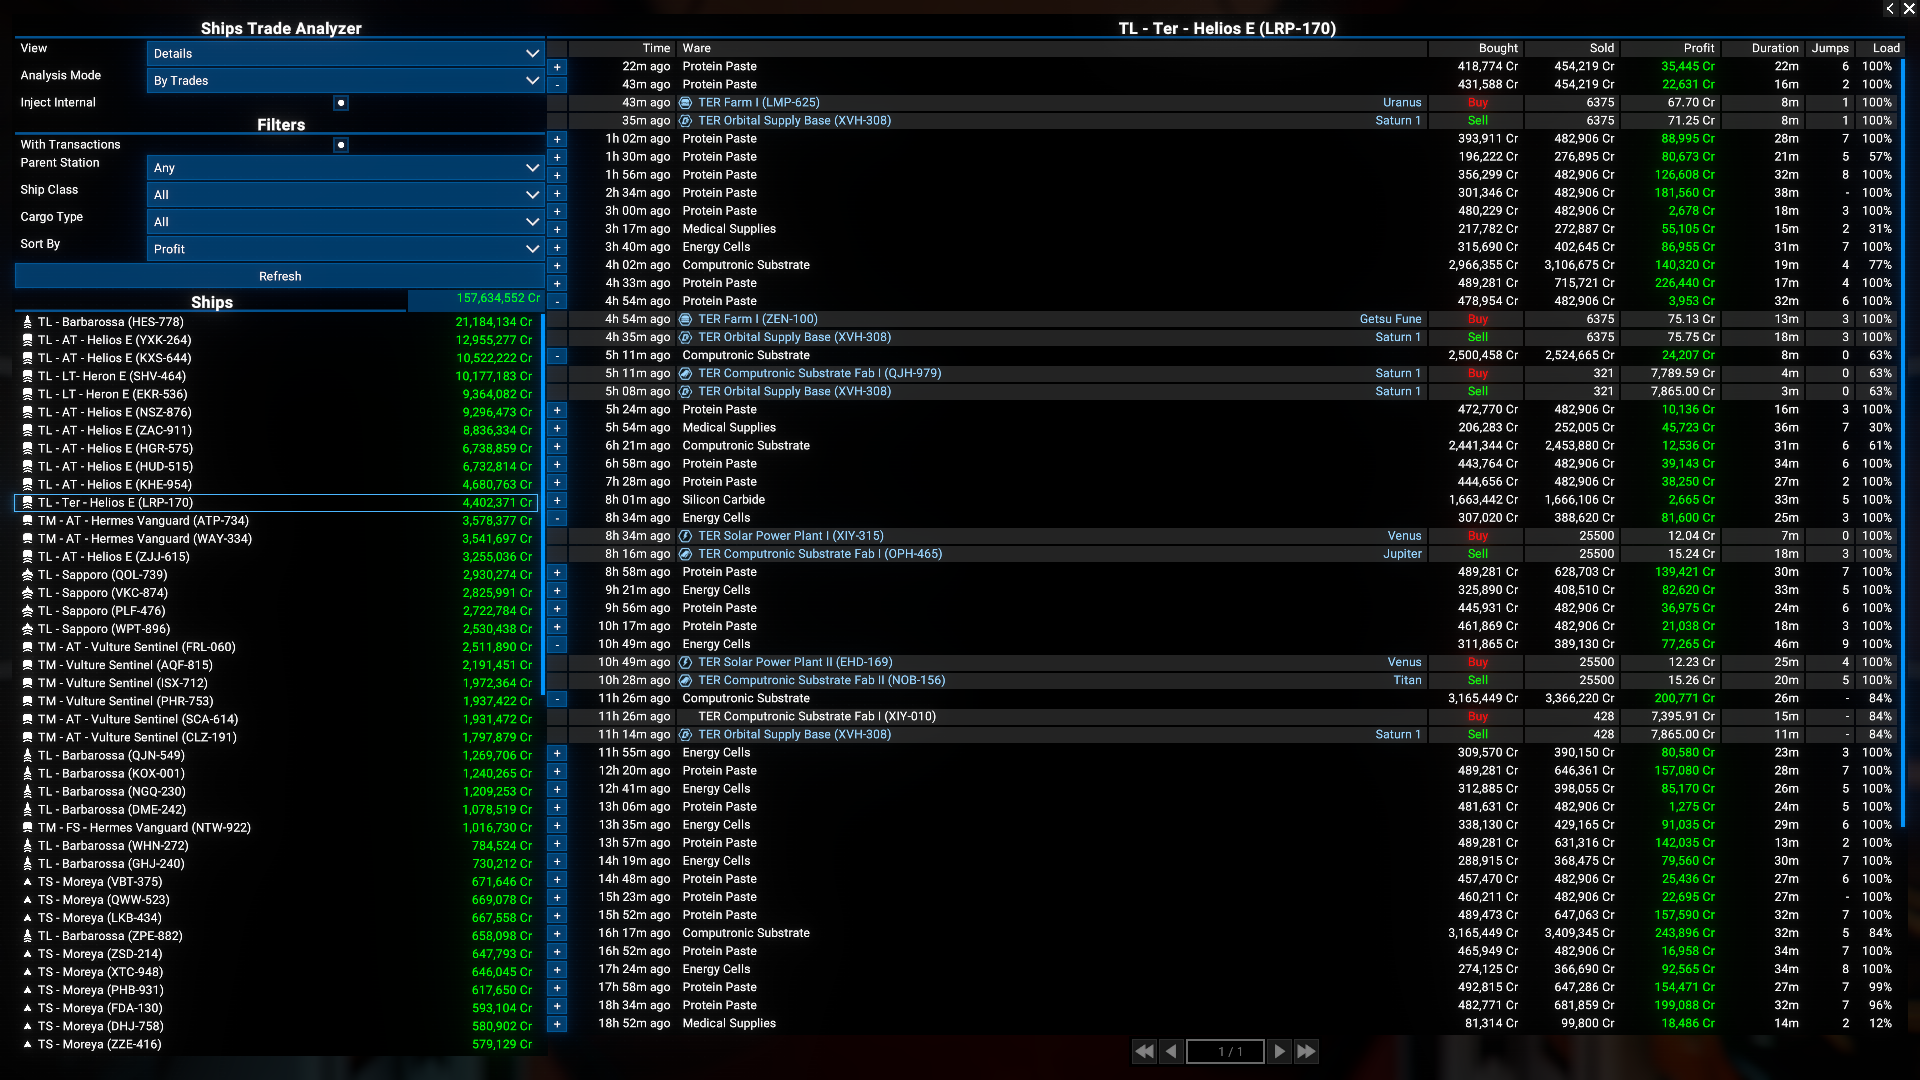
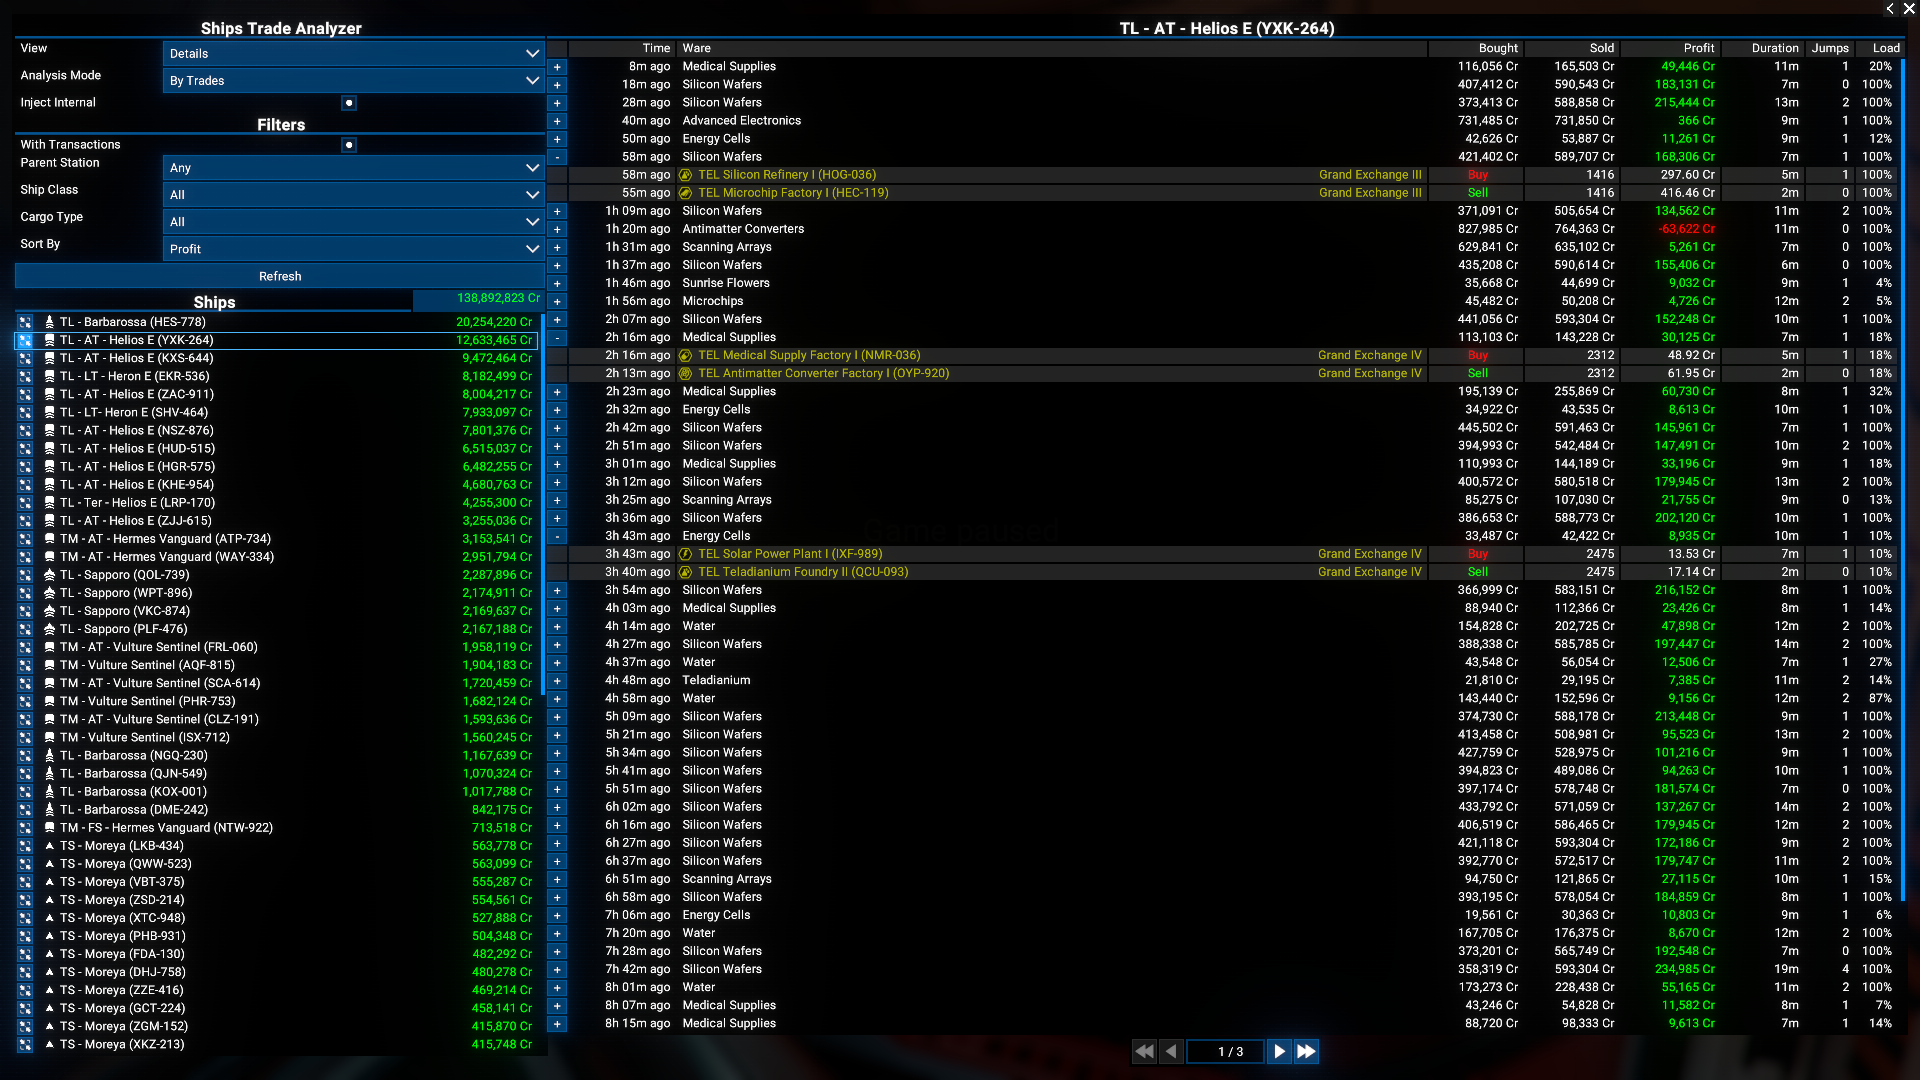
docs(readme): add screenshots for analyzer features
Insert context menu and show-on-map button images to illustrate
the ship list interactions described in the analyzer section.
Split the WHOAMI credit into its own line for clarity.

diff --git a/README.md b/README.md
@@ -88,9 +88,9 @@ A ship is picked by making its row the current one in the list on the left, exac
   ![Cargo Load - reverse order](docs/images/cargo_load_reverse.png)
 
 Right-clicking a ship **in the list on the left** opens the game's own interact menu for it, the same one the map's object list opens, so its orders, information, rename and comm are all reachable without leaving the analyzer.
-
+![Context Menu in Analyzer](docs/images/context_menu_in_analyzer.png)
 The button at the start of every ship row opens the map centred on that ship, with it already selected. Going back returns you to the analyzer as you left it.
-
+![Show on the Map button](docs/images/button_show_on_the_map.png)
 The data is read when the menu opens, and read again on a later open once the last reading is older than the **Data Refresh Interval** - one in-game minute by default. Press **Refresh** to read it again at any time.
 
 ## Settings
@@ -119,7 +119,8 @@ Found under Extension Options.
 
 - **Added**
   - The game's own interact menu on a right-click of any ship in the list, the same one the map's object list opens.
-  - A **Show on Map** button on every ship row, opening the map centred on that ship with it selected. Thanks to WHOAMI for the both ideas.
+  - A **Show on Map** button on every ship row, opening the map centred on that ship with it selected.
+  - Thanks to WHOAMI for the both ideas.
 
 ### [1.00] - 2026-08-12
 
